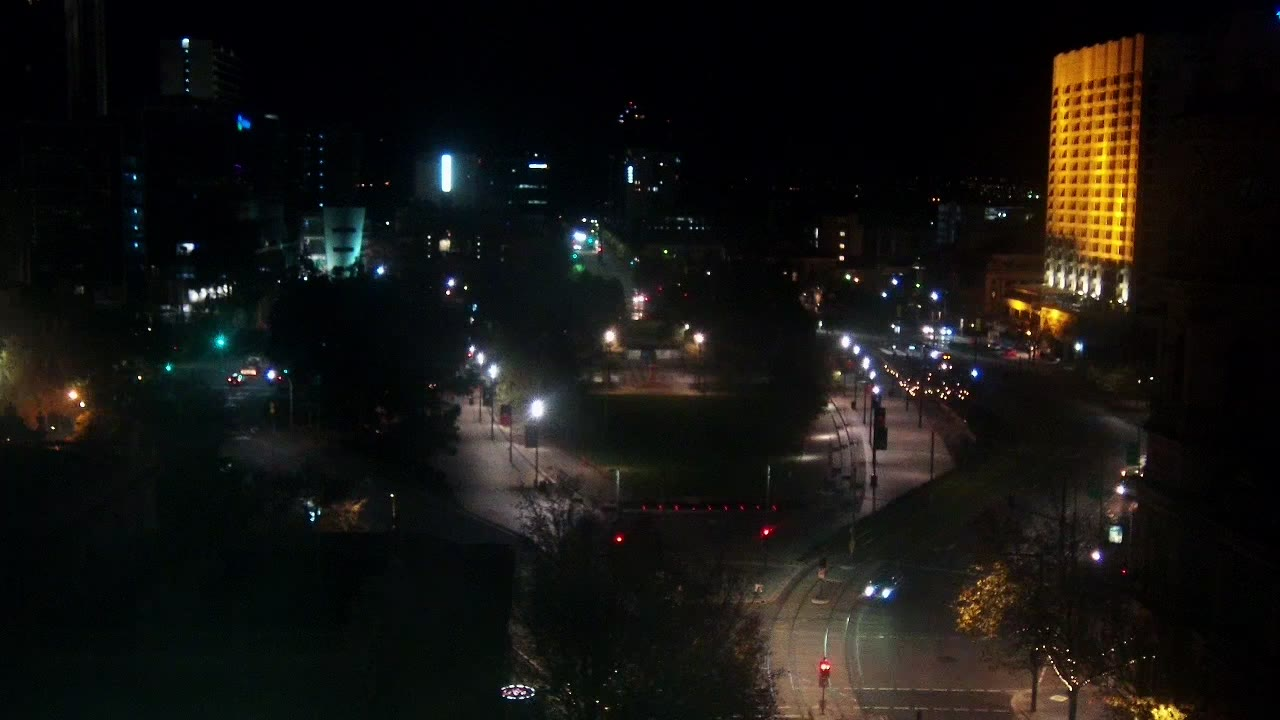
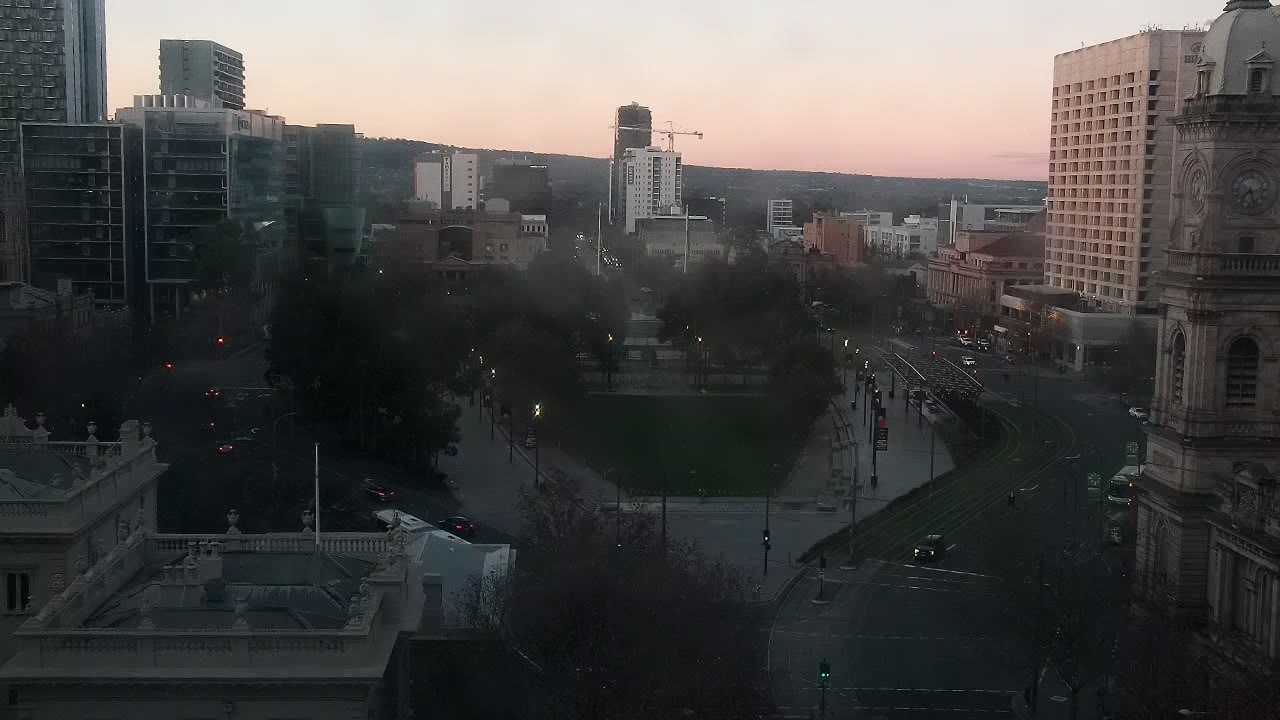
Update Adelaide live feed fallback

diff --git a/horizontal/index.html b/horizontal/index.html
@@ -162,7 +162,7 @@ body { color: #fff; }
   <section class="tile adelaide" data-type="hls" data-city="Adelaide">
     <div class="label">Adelaide</div>
     <video id="adelaide-video" class="frame" autoplay muted playsinline preload="auto" title="Adelaide live feed"></video>
-    <img id="adelaide-fallback" class="frame hidden" src="https://s127.ipcamlive.com/streams/7fudnys3tyrokz1cx/snapshot.jpg" alt="Adelaide live snapshot" />
+    <img id="adelaide-fallback" class="frame hidden" src="https://s127.ipcamlive.com/streams/7fz6jisplh9tuxdq3/snapshot.jpg" alt="Adelaide live snapshot" />
   </section>
 
   <section class="tile melbourne" data-type="youtube" data-city="Melbourne">
@@ -186,9 +186,9 @@ initAdelaideFeed({
   videoId: 'adelaide-video',
   fallbackId: 'adelaide-fallback',
   feedUrl: '../feeds/adelaide.json',
-  initialStreamId: '7fudnys3tyrokz1cx',
-  initialStreamUrl: 'https://s127.ipcamlive.com/streams/7fudnys3tyrokz1cx/stream.m3u8',
-  initialSnapshotUrl: 'https://s127.ipcamlive.com/streams/7fudnys3tyrokz1cx/snapshot.jpg',
+  initialStreamId: '7fz6jisplh9tuxdq3',
+  initialStreamUrl: 'https://s127.ipcamlive.com/streams/7fz6jisplh9tuxdq3/stream.m3u8',
+  initialSnapshotUrl: 'https://s127.ipcamlive.com/streams/7fz6jisplh9tuxdq3/snapshot.jpg',
   scheduledChecksSydney: ['06:55', '13:55']
 });
 </script>

diff --git a/vertical-2/index.html b/vertical-2/index.html
@@ -149,7 +149,7 @@ html, body {
     <div class="stream adelaide">
       <div class="label">Adelaide</div>
       <video id="adelaide-video" autoplay muted playsinline preload="auto" title="Adelaide live feed"></video>
-      <img id="adelaide-fallback" class="hidden" src="https://s127.ipcamlive.com/streams/7fudnys3tyrokz1cx/snapshot.jpg" alt="Adelaide live snapshot" />
+      <img id="adelaide-fallback" class="hidden" src="https://s127.ipcamlive.com/streams/7fz6jisplh9tuxdq3/snapshot.jpg" alt="Adelaide live snapshot" />
     </div>
 
     <div class="stream perth">
@@ -165,9 +165,9 @@ initAdelaideFeed({
   videoId: 'adelaide-video',
   fallbackId: 'adelaide-fallback',
   feedUrl: '../feeds/adelaide.json',
-  initialStreamId: '7fudnys3tyrokz1cx',
-  initialStreamUrl: 'https://s127.ipcamlive.com/streams/7fudnys3tyrokz1cx/stream.m3u8',
-  initialSnapshotUrl: 'https://s127.ipcamlive.com/streams/7fudnys3tyrokz1cx/snapshot.jpg',
+  initialStreamId: '7fz6jisplh9tuxdq3',
+  initialStreamUrl: 'https://s127.ipcamlive.com/streams/7fz6jisplh9tuxdq3/stream.m3u8',
+  initialSnapshotUrl: 'https://s127.ipcamlive.com/streams/7fz6jisplh9tuxdq3/snapshot.jpg',
   scheduledChecksSydney: ['06:55', '13:55']
 });
 </script>
